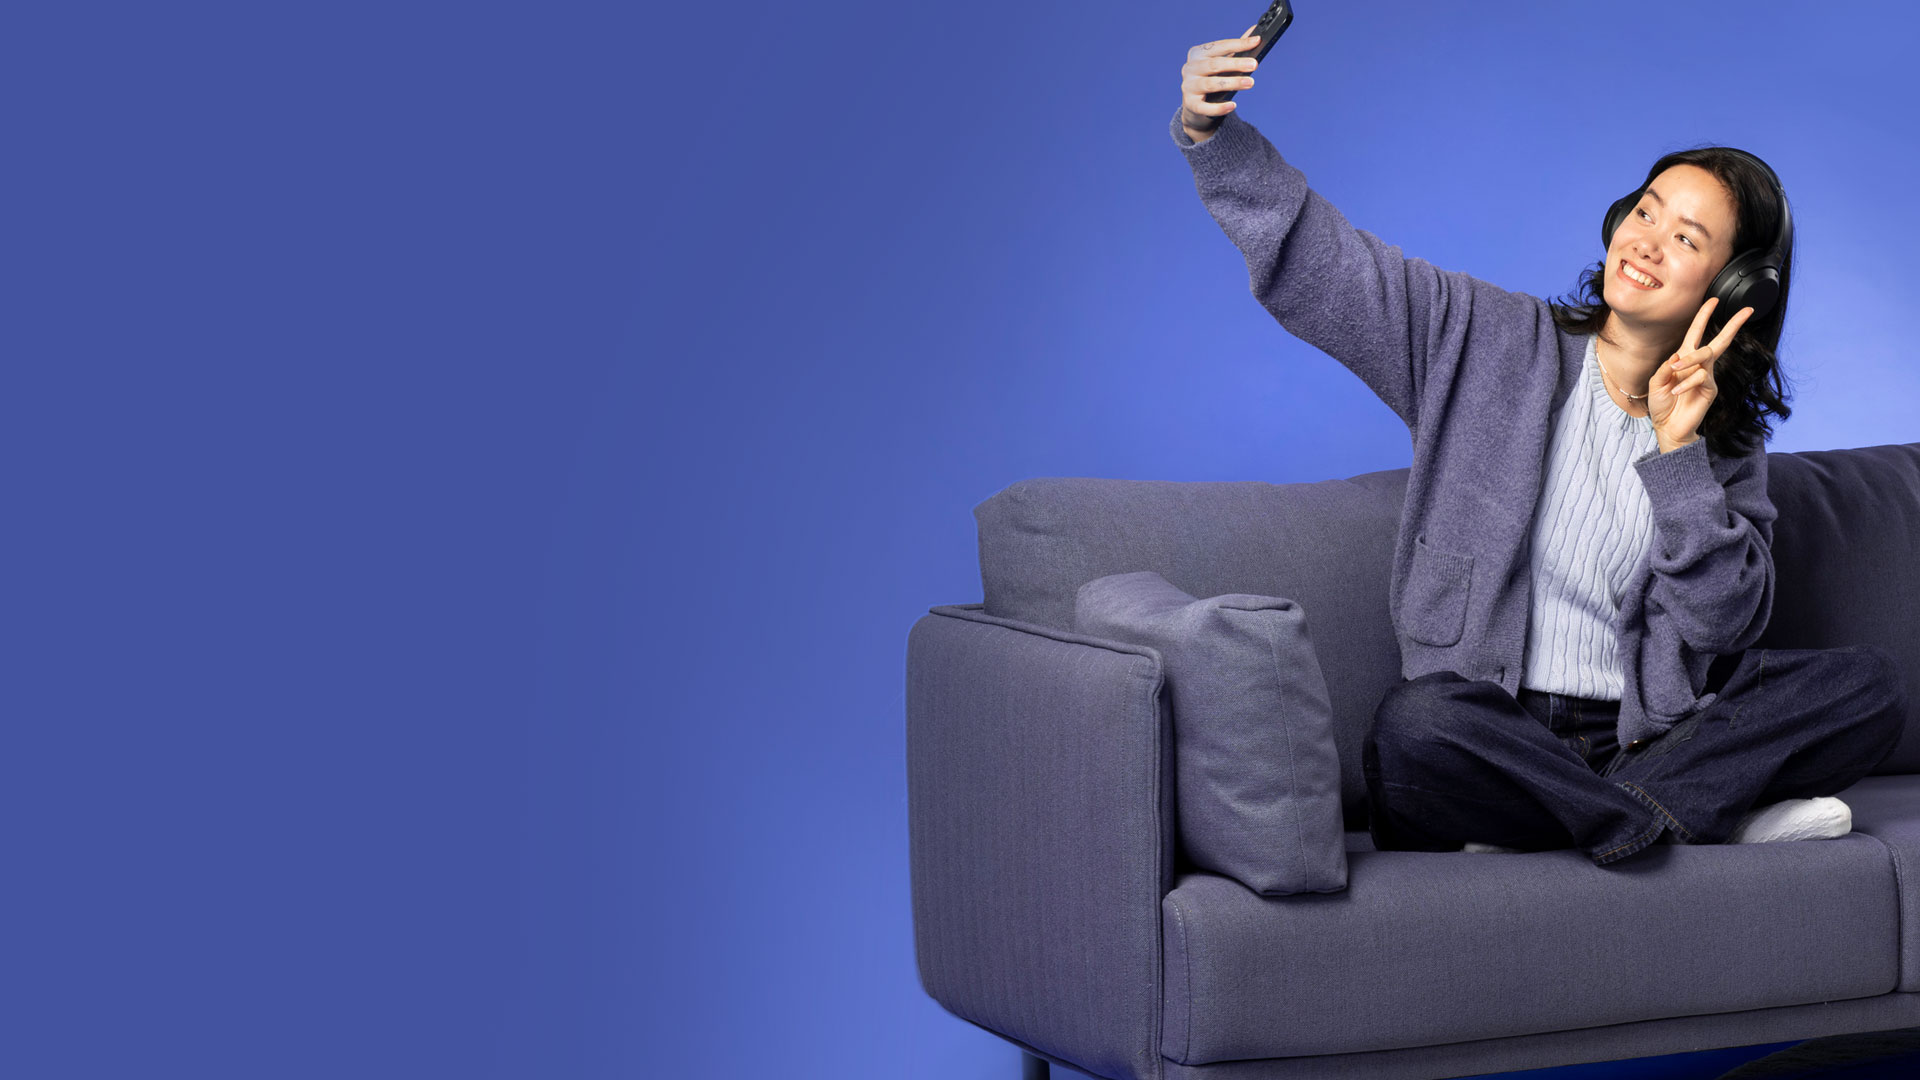
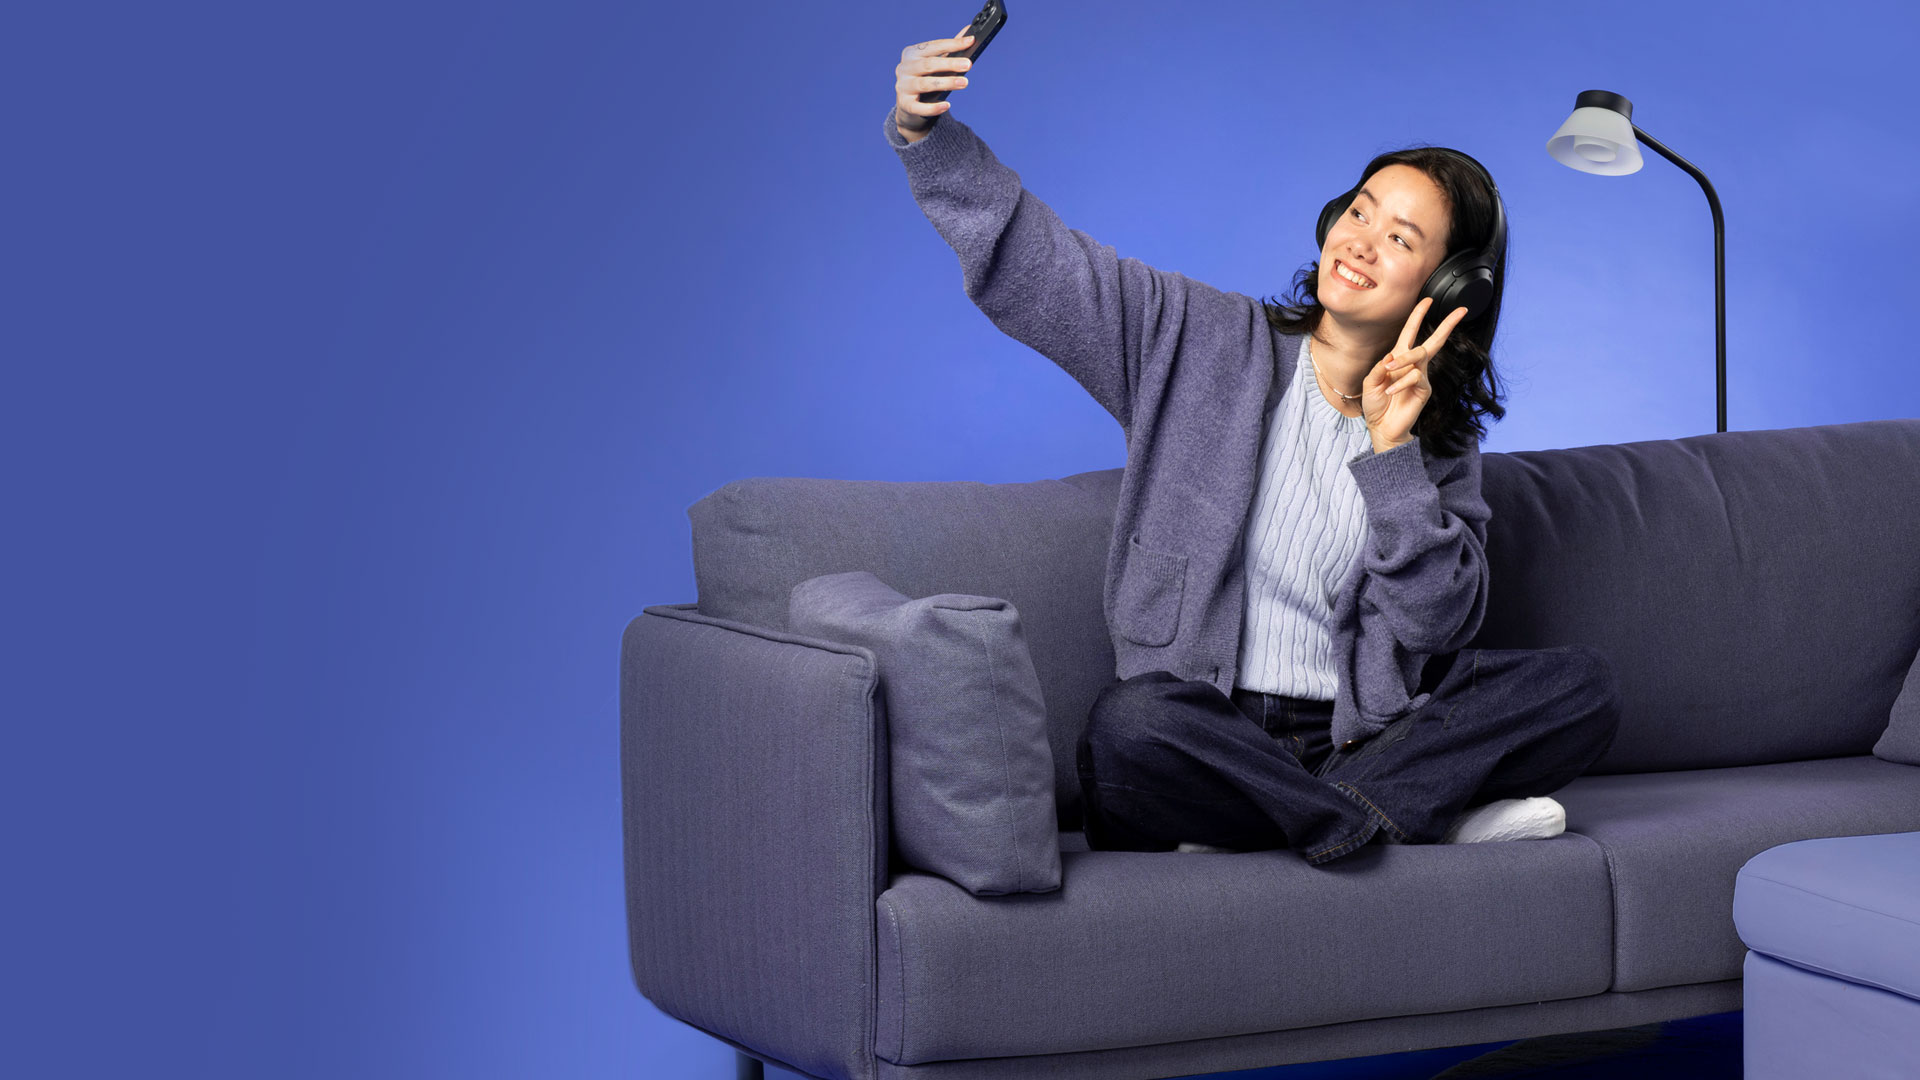
Aantallen in logokleur, #wvdm uit de bovenste regel, laatst bijgewerkt, downloadknop (CSV), nieuwe achtergrondfoto
Claude-Session: https://claude.ai/code/session_01JvYXzaFoxpfLXsDf1mppft

diff --git a/index.html b/index.html
@@ -16,7 +16,7 @@
   @media (prefers-reduced-motion: reduce) { .dash-skeleton { animation: none; } }
 </style>
 <script src="https://cdn.jsdelivr.net/npm/d3@7"></script>
-<script src="assets/dash-shim.js?v=2026110811"></script>
+<script src="assets/dash-shim.js?v=2026110812"></script>
 </head>
 <body>
 <div id="dash-root">
@@ -222,6 +222,14 @@
   @supports (-moz-appearance: none) { .nm-recent, .nm-ticker, .nm-tablebox { scrollbar-color: #5B6270 rgba(213,217,224,.55); } }
   .nm-ticker::-webkit-scrollbar-thumb, .nm-tablebox::-webkit-scrollbar-thumb { min-height: 90px; }
   .nm-recent::-webkit-scrollbar-thumb { min-width: 90px; }
+  /* v13: rode aantallen, laatst bijgewerkt, downloadknop */
+  .nm-intro .nm-line b.nm-aantal { color: #ec1162; font-size: 18px; font-weight: 700; }
+  .nm-csv { font-family: Arial, Helvetica, sans-serif; font-size: 16px; font-weight: 700; min-height: 44px; padding: 8px 16px; border-radius: 8px; border: 1px solid #ec1162; background: #ec1162; color: #ffffff; cursor: pointer; }
+  .nm-csv:hover { background: #c90d52; border-color: #c90d52; }
+  .nm-csv:focus-visible { outline: 2px solid #ffffff; outline-offset: 2px; }
+  .nm-csv-melding { font-size: 14px; color: var(--nm-muted); align-self: center; }
+  @media (min-width: 761px) { .nm-bg { background-size: max(112vw, 199vh) auto; background-position: right 35%; } }
+  @media (max-width: 760px) { .nm-bg { background-position: 74% top; } }
   [data-dash-source-state=empty] { color: transparent; }
   [data-dash-source-state=refreshing] { opacity: .5; transition: opacity var(--cds-dur-slow); }
 </style>
@@ -244,9 +252,9 @@
   <div class="nm-topic" data-onderwerp="wvdm2026">
     <div class="nm-introrow">
     <section class="nm-intro" id="samenvatting">
-      <p class="nm-line">Vermeldingen tot <b data-draw="kpi" data-source="wvdm_totaal" data-row="0" data-field="stand_label">—</b>: <b data-draw="kpi" data-source="wvdm_totaal" data-row="0" data-field="totaal">—</b><span class="nm-dot">·</span>Week van de Mediawijsheid: <b data-draw="kpi" data-source="wvdm_totaal" data-row="0" data-field="wvdm_aantal">—</b><span class="nm-dot">·</span>#wvdm: <b data-draw="kpi" data-source="wvdm_totaal" data-row="0" data-field="hashtag_totaal">—</b><span class="nm-dot">·</span>MediaMasters: <b data-draw="kpi" data-source="wvdm_totaal" data-row="0" data-field="mm_totaal">—</b></p>
-      <p class="nm-line">Drukste dag: <b data-draw="kpi" data-source="wvdm_totaal" data-row="0" data-field="piek_datum_label">—</b>, <b data-draw="kpi" data-source="wvdm_totaal" data-row="0" data-field="piek_aantal">—</b> vermeldingen</p>
-      <p class="nm-line"><span class="nm-fine">Deze vermeldingen kunnen foutmarges bevatten.</span></p>
+      <p class="nm-line">Vermeldingen tot <b data-draw="kpi" data-source="wvdm_totaal" data-row="0" data-field="stand_label">—</b>: <b class="nm-aantal" data-draw="kpi" data-source="wvdm_totaal" data-row="0" data-field="totaal">—</b><span class="nm-dot">·</span>Week van de Mediawijsheid: <b class="nm-aantal" data-draw="kpi" data-source="wvdm_totaal" data-row="0" data-field="wvdm_aantal">—</b><span class="nm-dot">·</span>MediaMasters: <b class="nm-aantal" data-draw="kpi" data-source="wvdm_totaal" data-row="0" data-field="mm_totaal">—</b></p>
+      <p class="nm-line">Drukste dag: <b data-draw="kpi" data-source="wvdm_totaal" data-row="0" data-field="piek_datum_label">—</b>, <b class="nm-aantal" data-draw="kpi" data-source="wvdm_totaal" data-row="0" data-field="piek_aantal">—</b> vermeldingen</p>
+      <p class="nm-line"><span class="nm-fine">Deze vermeldingen kunnen foutmarges bevatten.<span class="nm-dot">·</span>Laatst bijgewerkt: <span data-draw="bijgewerkt" data-source="vermeldingen">—</span></span></p>
     </section>
       <div class="nm-logos">
         <span class="nm-camplogo" role="img" aria-label="Week van de Mediawijsheid 2026" data-draw="camplogo" data-source="logo_wvdm2026"></span>
@@ -330,6 +338,8 @@
           <option value="geen-mm">Zonder MediaMasters</option>
         </select>
         <input class="nm-search" type="search" placeholder="Zoek op bron of titel" aria-label="Zoek op bron of titel">
+        <button type="button" class="nm-csv">Download als Excel (CSV)</button>
+        <span class="nm-csv-melding" role="status"></span>
       </div>
       <div class="nm-tablebox">
         <table class="nm-table" data-source="vermeldingen" data-row-key="id">
@@ -356,7 +366,7 @@
         <dt>Social media</dt>
         <dd>Instagram, Facebook en LinkedIn zijn via zoekmachines nauwelijks doorzoekbaar. Tot er via de browser op die platforms is gezocht, zijn de social-cijfers een ondergrens, geen werkelijk aantal.</dd>
         <dt>Opsplitsing bovenaan</dt>
-        <dd>"Week van de Mediawijsheid" en "MediaMasters" tellen samen op tot het totaal: een bericht over de game MediaMasters telt bij MediaMasters, de rest bij de Week van de Mediawijsheid. "#wvdm" telt de vermeldingen met #wvdm of #WvdM2026 en overlapt met beide.</dd>
+        <dd>"Week van de Mediawijsheid" en "MediaMasters" tellen samen op tot het totaal. Een bericht over de game MediaMasters telt bij MediaMasters, de rest telt bij de Week van de Mediawijsheid. Hoe vaak #wvdm en #WvdM2026 gebruikt zijn, zie je bij "Gebruikte hashtags en tags".</dd>
         <dt>Hashtags en tags</dt>
         <dd>Altijd meegeteld: #wvdm, #WvdM2026, #weekvandemediawijsheid, #gezondmetjescherm, #mediamasters, #mediamastersnl, #iedereenmediawijs, @iedereenmediawijs en @mediamastersnl. Alleen in combinatie met de campagne: #mediawijsheid, #schermtijd en #digitalebalans. Hashtags worden vooral op social media gebruikt, dus deze aantallen groeien pas als daar gezocht is.</dd>
         <dt>Datum</dt>
@@ -515,12 +525,61 @@
   };
 
   window.nmFilter = { kanaal: '', thema: '', q: '' };
+
+  // de berichten volgens het huidige filter, nieuwste eerst (voor de tabel en de download)
+  window.nmSelectie = (alle) => {
+    const f = window.nmFilter || { kanaal: '', thema: '', q: '' };
+    return alle
+      .filter((r) => r.onderwerp === 'Week van de Mediawijsheid 2026')
+      .filter((r) => !f.kanaal || r.kanaal === f.kanaal)
+      .filter((r) => !f.thema || (f.thema === 'mm' ? r.mediamasters === true : r.mediamasters !== true))
+      .filter((r) => !f.q || (String(r.bron) + ' ' + String(r.titel) + ' ' + String(r.soort)).toLowerCase().includes(f.q))
+      .slice()
+      .sort((a, b) => (b.datum || '').localeCompare(a.datum || ''));
+  };
+
+  // download als CSV (Excel, puntkomma's, UTF-8 met BOM voor de Nederlandse tekens)
+  document.querySelectorAll('.nm-csv').forEach((knop) => knop.addEventListener('click', () => {
+    const melding = knop.parentElement.querySelector('.nm-csv-melding');
+    const d = dash.data('vermeldingen');
+    if (d.status !== 'ok') { if (melding) melding.textContent = 'De gegevens zijn nog niet geladen.'; return; }
+    const kolommen = [['Bericht', 'titel'], ['Link', 'url'], ['Bron', 'bron'], ['Datum', 'datum'], ['Datum (tekst)', 'datum_label'], ['Kanaal', 'kanaal'], ['Soort', 'soort'], ['MediaMasters', 'mediamasters'], ['Hashtags', 'hashtags'], ['Samenvatting', 'samenvatting'], ['Gevonden op', 'gevonden_op']];
+    const cel = (v) => {
+      let s = v === true ? 'ja' : v === false ? 'nee' : (v == null ? '' : String(v));
+      if (/^[=+\-@]/.test(s)) s = "'" + s;
+      return /[";\n\r]/.test(s) ? '"' + s.replace(/"/g, '""') + '"' : s;
+    };
+    const rijen = window.nmSelectie(d.data);
+    const tekst = [kolommen.map((k) => k[0]).join(';')].concat(rijen.map((r) => kolommen.map((k) => cel(r[k[1]])).join(';'))).join('\r\n');
+    try {
+      const blob = new Blob(['\ufeff' + tekst], { type: 'text/csv;charset=utf-8' });
+      const url = URL.createObjectURL(blob);
+      const a = document.createElement('a'); a.href = url; a.download = 'week-van-de-mediawijsheid-2026-vermeldingen.csv';
+      document.body.append(a); a.click(); a.remove();
+      setTimeout(() => URL.revokeObjectURL(url), 4000);
+      if (melding) melding.textContent = rijen.length + ' berichten gedownload.';
+    } catch (e) { if (melding) melding.textContent = 'Downloaden lukt hier niet. Probeer het op nmdashboard.oirik.com.'; }
+  }));
   document.querySelectorAll('.nm-kanaal').forEach((s) => s.addEventListener('change', () => { window.nmFilter.kanaal = s.value; dash.draw('tabel'); }));
   document.querySelectorAll('.nm-thema').forEach((s) => s.addEventListener('change', () => { window.nmFilter.thema = s.value; dash.draw('tabel'); }));
   document.querySelectorAll('.nm-search').forEach((s) => s.addEventListener('input', () => { window.nmFilter.q = s.value.trim().toLowerCase(); dash.draw('tabel'); }));
 </script>
 
 <script>
+  // laatst bijgewerkt: tijdstip van het gegevensbestand (op de eigen site), anders de datum van de laatste zoekronde
+  dash.draw('bijgewerkt', (el) => {
+    const d = dash.data('vermeldingen');
+    if (d.status !== 'ok') { el.textContent = '—'; return; }
+    const t = d.bijgewerkt ? new Date(d.bijgewerkt) : null;
+    if (t && !isNaN(t)) {
+      el.textContent = t.toLocaleDateString('nl-NL', { weekday: 'short', day: 'numeric', month: 'short', timeZone: 'Europe/Amsterdam' }).replace('.', '')
+        + ', ' + t.toLocaleTimeString('nl-NL', { hour: '2-digit', minute: '2-digit', timeZone: 'Europe/Amsterdam' });
+      return;
+    }
+    const s = dash.data('wvdm_totaal');
+    el.textContent = s.status === 'ok' && s.data[0] && s.data[0].stand_label ? s.data[0].stand_label : '—';
+  });
+
   dash.draw('kpi', (el) => {
     const d = dash.data(el.dataset.source);
     if (d.status === 'loading') { el.textContent = '—'; return; }
@@ -960,14 +1019,7 @@
     tb.replaceChildren();
     const leeg = document.querySelectorAll('.nm-empty');
     if (d.status !== 'ok') { leeg.forEach((p) => { p.hidden = true; }); return; }
-    const f = window.nmFilter || { kanaal: '', q: '' };
-    const rows = d.data
-      .filter((r) => r.onderwerp === 'Week van de Mediawijsheid 2026')
-      .filter((r) => !f.kanaal || r.kanaal === f.kanaal)
-      .filter((r) => !f.thema || (f.thema === 'mm' ? r.mediamasters === true : r.mediamasters !== true))
-      .filter((r) => !f.q || (String(r.bron) + ' ' + String(r.titel) + ' ' + String(r.soort)).toLowerCase().includes(f.q))
-      .slice()
-      .sort((a, b) => (b.datum || '').localeCompare(a.datum || ''));
+    const rows = window.nmSelectie(d.data);
     rows.forEach((r) => {
       const tr = document.createElement('tr'); tr.dataset.key = r.id;
       const td = (txt, cls) => { const c = document.createElement('td'); if (cls) c.className = cls; c.textContent = txt == null ? '' : String(txt); tr.append(c); return c; };

diff --git a/assets/dash-shim.js b/assets/dash-shim.js
@@ -3,7 +3,7 @@
 (function () {
   const SOURCES = {
     vermeldingen: { url: 'data/vermeldingen.json', type: 'json' },
-    bg_wvdm2026: { url: 'assets/bg-wvdm2026.jpg?v=2', type: 'dataurl' },
+    bg_wvdm2026: { url: 'assets/bg-wvdm2026.jpg?v=3', type: 'dataurl' },
     logo: { url: 'assets/logo.svg', type: 'dataurl' },
     logo_wvdm2026: { url: 'assets/logo-wvdm2026.svg', type: 'dataurl' },
     logo_mediamasters: { url: 'assets/logo-mediamasters.png', type: 'dataurl' },
@@ -26,12 +26,13 @@
     if (!s) { store[id] = { status: 'missing', data: [] }; return; }
     if (!store[id]) store[id] = { status: 'loading', data: [] };
     const url = s.type === 'json' ? s.url + '?t=' + Date.now() : s.url;
+    let bijgewerkt = '';
     fetch(url, { cache: s.type === 'json' ? 'no-store' : 'default' })
-      .then((r) => { if (!r.ok) throw new Error(r.status + ' ' + r.statusText); return s.type === 'json' ? r.json() : r.blob(); })
+      .then((r) => { if (!r.ok) throw new Error(r.status + ' ' + r.statusText); bijgewerkt = r.headers.get('Last-Modified') || ''; return s.type === 'json' ? r.json() : r.blob(); })
       .then((d) => s.type === 'dataurl'
         ? new Promise((res) => { const fr = new FileReader(); fr.onload = () => res(fr.result); fr.readAsDataURL(d); })
         : d)
-      .then((d) => { store[id] = { status: 'ok', data: d }; redraw(); })
+      .then((d) => { store[id] = { status: 'ok', data: d, bijgewerkt }; redraw(); })
       .catch((e) => { if (!force) { store[id] = { status: 'error', data: [], message: String(e) }; redraw(); } });
   }
 
